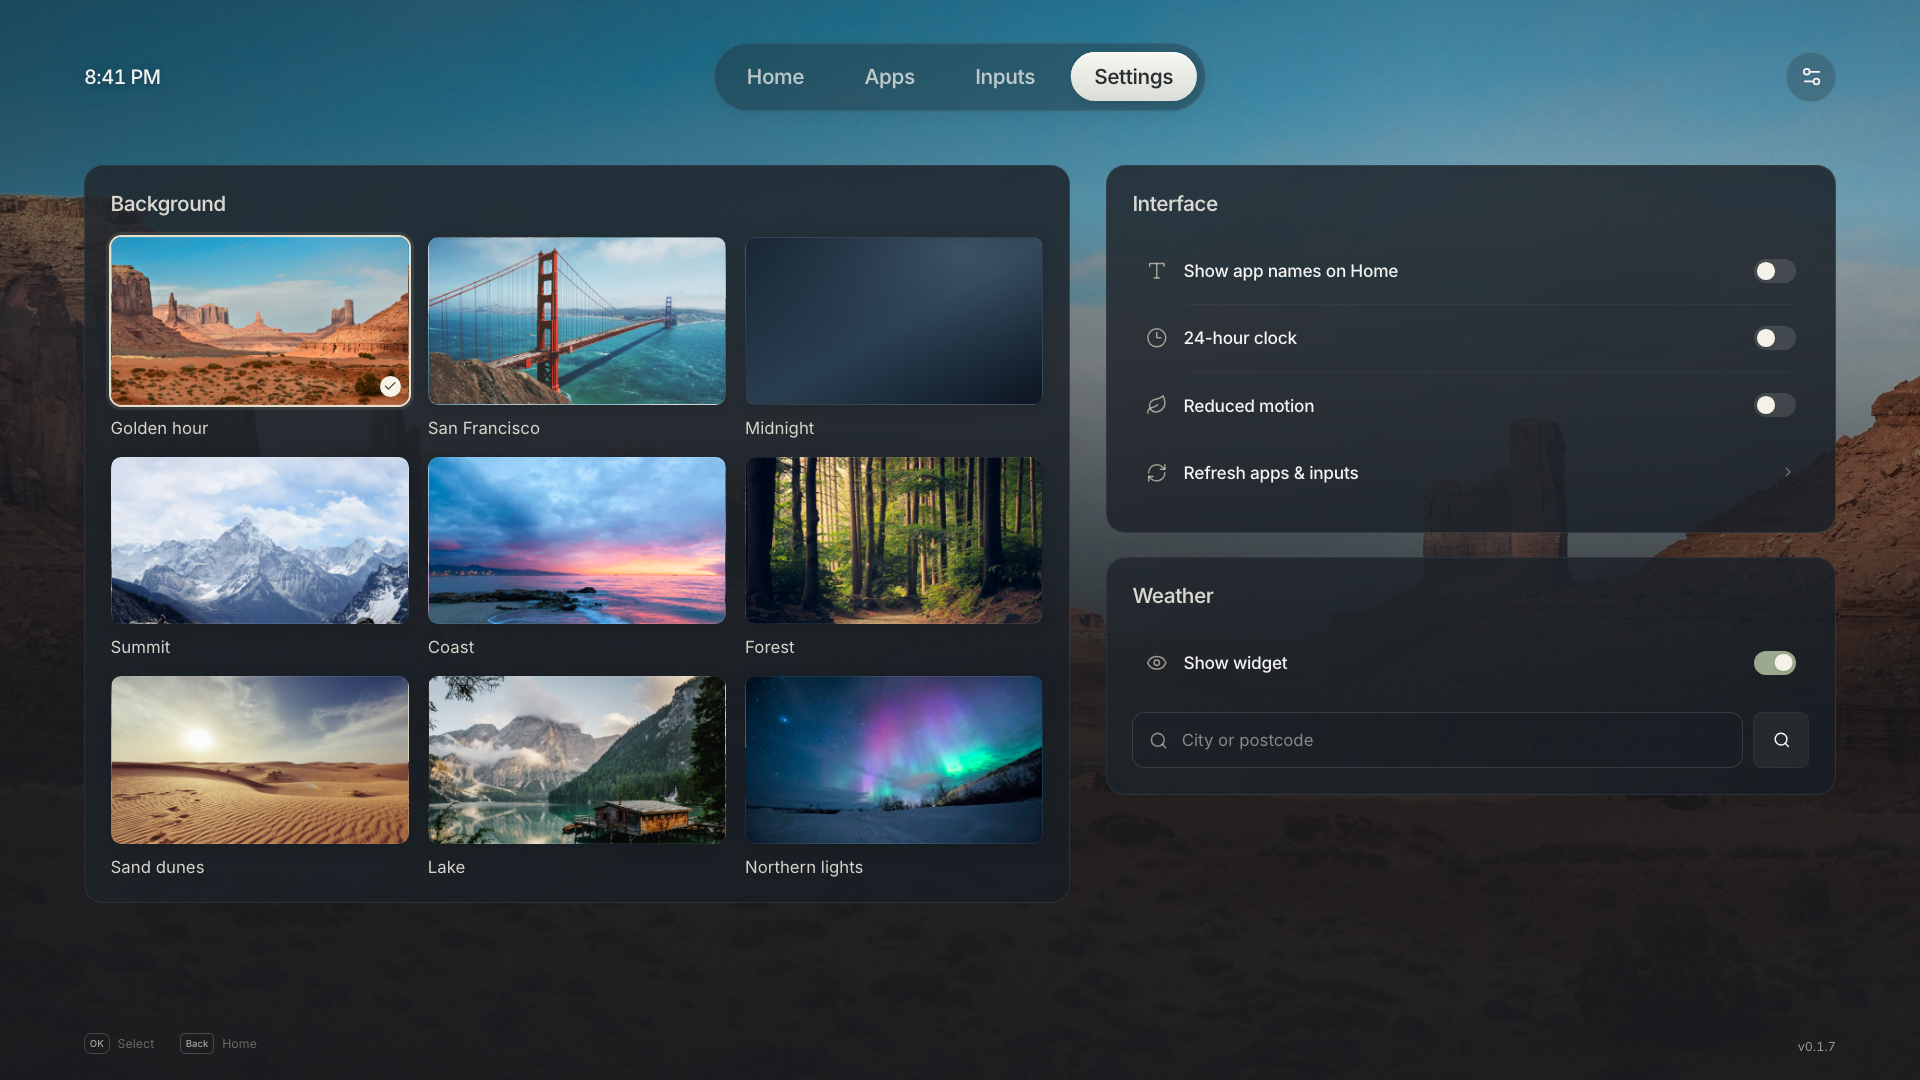
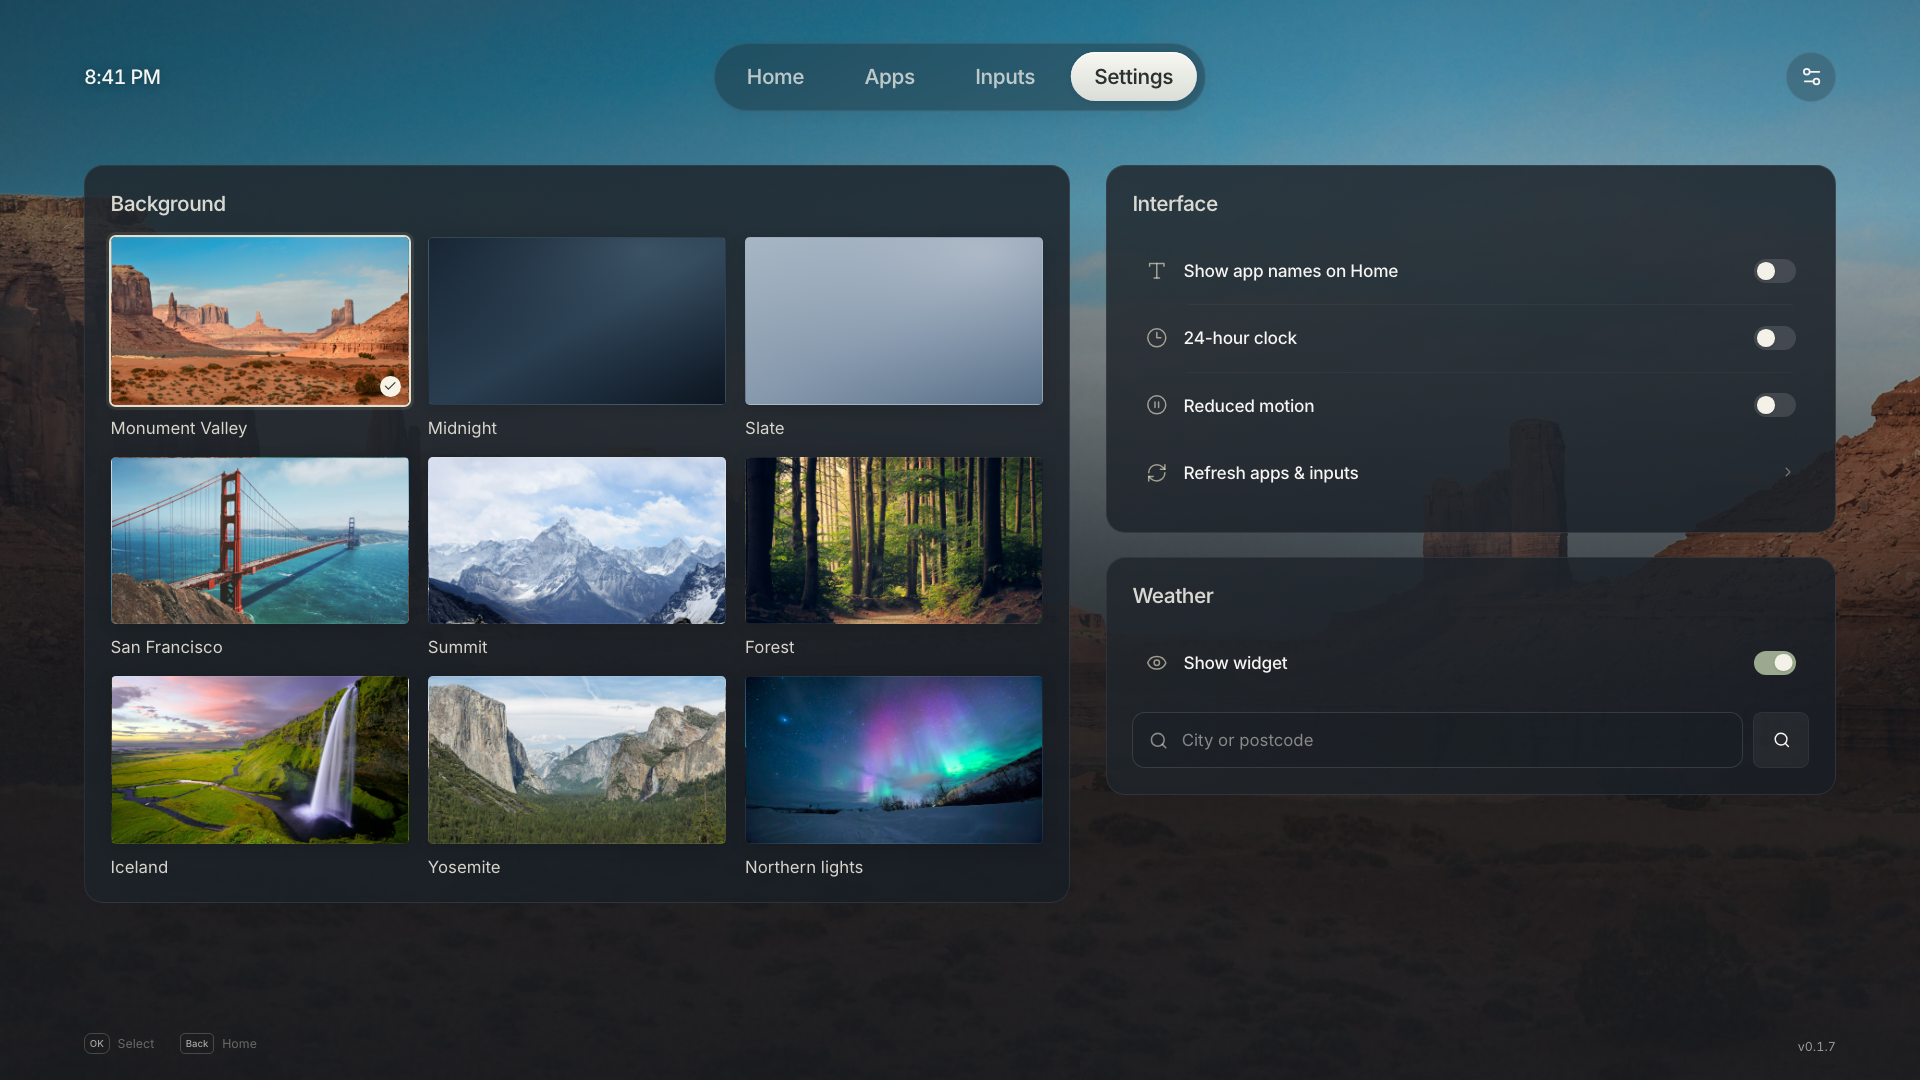
style: adjust wallpapers

Changed region(s): [[0.0312, 0.2139, 0.5625, 0.825], [0.5938, 0.3667, 0.625, 0.3972]]

diff --git a/tests/weather.spec.ts b/tests/weather.spec.ts
@@ -189,3 +189,24 @@ test('weather visibility preserves the city and prevents requests when the widge
   await page.getByRole('button', { name: 'Enter ambient mode' }).click();
   await expect(page.locator('.ambient-hint')).toHaveText('Press any button to return');
 });
+
+test('Back exits city editing before leaving Settings, including the TV Back key', async ({
+  page,
+}) => {
+  await page.goto('/');
+  await page.getByRole('button', { name: 'Settings', exact: true }).click();
+  const field = page.getByRole('searchbox', { name: 'City or postcode' });
+  const search = page.getByRole('button', { name: 'Search locations', exact: true });
+  await field.fill('Berlin');
+  await page.keyboard.press('Escape');
+  await expect(page.getByRole('region', { name: 'Luma settings', exact: true })).toBeVisible();
+  await expect(field).toHaveValue('Berlin');
+  await expect(search).toBeFocused();
+  await field.focus();
+  await field.dispatchEvent('keydown', { key: 'Unidentified', keyCode: 461, bubbles: true });
+  await expect(page.getByRole('region', { name: 'Luma settings', exact: true })).toBeVisible();
+  await expect(field).toHaveValue('Berlin');
+  await expect(search).toBeFocused();
+  await page.keyboard.press('Escape');
+  await expect(page.getByRole('heading', { name: 'Favorites', exact: true })).toBeVisible();
+});

diff --git a/src/components/connection-icon.tsx b/src/components/connection-icon.tsx
@@ -15,6 +15,9 @@ export function ConnectionIcon({ input }: { input: TVInput }) {
       </svg>
     );
   }
+  if (/apple[\s._-]*tv/i.test(name)) {
+    return <svg viewBox="0 0 24 24" aria-hidden="true" data-connection-icon="apple-tv" fill="currentColor"><path d="M20.57 17.735h-1.815l-3.34-9.203h1.633l2.02 5.987c.075.231.273.9.586 2.012l.297-.997.33-1.006 2.094-6.004H24zm-5.344-.066a5.76 5.76 0 0 1-1.55.207c-1.23 0-1.84-.693-1.84-2.087V9.646h-1.063V8.532h1.121V7.081l1.476-.602v2.062h1.707v1.113H13.38v5.805c0 .446.074.75.214.932.14.182.396.264.75.264.207 0 .495-.041.883-.115zm-7.29-5.343c.017 1.764 1.55 2.358 1.567 2.366-.017.042-.248.842-.808 1.658-.487.71-.99 1.418-1.79 1.435-.783.016-1.03-.462-1.93-.462-.89 0-1.17.445-1.913.478-.758.025-1.344-.775-1.838-1.484-.998-1.451-1.765-4.098-.734-5.88.51-.89 1.426-1.451 2.416-1.46.75-.016 1.468.512 1.93.512.461 0 1.327-.627 2.234-.536.38.016 1.452.157 2.136 1.154-.058.033-1.278.743-1.27 2.219M6.468 7.988c.404-.495.685-1.18.61-1.864-.585.025-1.294.388-1.723.883-.38.437-.71 1.138-.619 1.806.652.05 1.328-.338 1.732-.825Z" /></svg>;
+  }
   if (/(?:^|[\s._-])usb(?:$|[\s._-]|\d)/i.test(name))
     return <Usb strokeWidth={1.5} aria-hidden="true" data-connection-icon="usb" />;
   if (input.kind === 'console')

diff --git a/src/wallpapers.ts b/src/wallpapers.ts
@@ -6,8 +6,18 @@ export const wallpapers: {
   image: string;
 }[] = [
   {
+    id: 'slate',
+    title: 'Slate',
+    image: 'slate.svg',
+  },
+  {
+    id: 'midnight',
+    title: 'Midnight',
+    image: 'midnight.svg',
+  },
+  {
     id: 'dunes',
-    title: 'Golden hour',
+    title: 'Monument Valley',
     image: 'dunes.jpg',
   },
   {
@@ -16,19 +26,9 @@ export const wallpapers: {
     image: 'san-francisco.jpg',
   },
   {
-    id: 'midnight',
-    title: 'Midnight',
-    image: 'midnight.svg',
-  },
-  {
     id: 'summit',
     title: 'Summit',
     image: 'summit.jpg',
-  },
-  {
-    id: 'coast',
-    title: 'Coast',
-    image: 'coast.jpg',
   },
   {
     id: 'forest',
@@ -36,14 +36,14 @@ export const wallpapers: {
     image: 'forest.jpg',
   },
   {
-    id: 'sand-dunes',
-    title: 'Sand dunes',
-    image: 'sand-dunes.jpg',
+    id: 'lofoten',
+    title: 'Lofoten',
+    image: 'lofoten.jpg',
   },
   {
-    id: 'lake',
-    title: 'Lake',
-    image: 'lake.jpg',
+    id: 'yosemite',
+    title: 'Yosemite',
+    image: 'yosemite.jpg',
   },
   {
     id: 'northern-lights',

diff --git a/src/components/settings.tsx b/src/components/settings.tsx
@@ -1,4 +1,4 @@
-import { Check, ChevronRight, Clock3, Leaf, RefreshCw, Type } from 'lucide-react';
+import { Accessibility, Check, ChevronRight, Clock3, RefreshCw, Type } from 'lucide-react';
 import { WeatherSettings } from './weather-settings';
 import type { Preferences } from '../types';
 import { wallpapers } from '../wallpapers';
@@ -89,7 +89,7 @@ export function Settings({ preferences, onUpdate, onRefresh }: Props) {
                 data-focusable="setting-motion"
                 onClick={() => onUpdate({ reducedMotion: !preferences.reducedMotion })}
               >
-                <Leaf />
+                <Accessibility />
                 <span>
                   <strong>Reduced motion</strong>
                 </span>

diff --git a/src/components/weather-settings.tsx b/src/components/weather-settings.tsx
@@ -107,6 +107,16 @@ export function WeatherSettings({
             aria-label="City or postcode"
             data-focusable="weather-location-query"
             value={query}
+            onKeyDown={(event) => {
+              if (event.key === 'Escape' || event.keyCode === 461) {
+                event.preventDefault();
+                event.stopPropagation();
+                if (!event.repeat) {
+                  event.currentTarget.blur();
+                  searchButton.current?.focus({ preventScroll: true });
+                }
+              }
+            }}
             onChange={(event) => {
               controller.current?.abort();
               setLoading(false);

diff --git a/src/styles.css b/src/styles.css
@@ -119,14 +119,11 @@ button svg {
   background-position: center 40%;
   filter: saturate(0.7) brightness(0.8);
 }
-.wallpaper-coast,
 .wallpaper-forest,
-.wallpaper-lake,
+.wallpaper-lofoten,
+.wallpaper-yosemite,
 .wallpaper-northern-lights {
   filter: saturate(0.8);
-}
-.wallpaper-sand-dunes {
-  filter: saturate(0.8) brightness(0.85);
 }
 .wallpaper-shade {
   background:
@@ -664,6 +661,10 @@ button svg {
 .input-art svg {
   width: 2.2rem;
   height: 2.2rem;
+}
+.input-art [data-connection-icon='apple-tv'] {
+  width: 2.6rem;
+  height: 2.6rem;
 }
 .input-console .input-art {
   color: #d8dfeb;

diff --git a/src/settings.css b/src/settings.css
@@ -34,6 +34,13 @@
 .settings-page .wallpaper-thumbnail {
   height: auto;
   aspect-ratio: 16/9;
+  border-radius: 0.3rem;
+}
+.settings-page .wallpaper-option {
+  border-radius: 0.3rem;
+}
+.settings-page .wallpaper-option:focus-visible {
+  outline-offset: 3px;
 }
 .settings-page .wallpaper-option > span:not(.wallpaper-thumbnail) {
   font-size: 1.05rem;

diff --git a/src/types.ts b/src/types.ts
@@ -4,10 +4,10 @@ export type Wallpaper =
   | 'san-francisco'
   | 'midnight'
   | 'summit'
-  | 'coast'
+  | 'slate'
   | 'forest'
-  | 'sand-dunes'
-  | 'lake'
+  | 'lofoten'
+  | 'yosemite'
   | 'northern-lights';
 export type Category = 'Streaming' | 'Music' | 'Gaming' | 'Utilities';
 

diff --git a/assets.md b/assets.md
@@ -1,13 +1,12 @@
 # Luma assets and references
 
-- `public/mark.svg`, `public/app-icon.svg`, and `public/wallpapers/midnight.svg`: original Luma artwork, MIT. The TV app icon has a transparent background; webOS supplies the panel via `iconColor`, so there is no second background with its own clipping radius.
+- `public/mark.svg`, `public/app-icon.svg`, `public/wallpapers/midnight.svg`, and `public/wallpapers/slate.svg`: original Luma artwork, MIT. The TV app icon has a transparent background; webOS supplies the panel via `iconColor`, so there is no second background with its own clipping radius.
 - `public/wallpapers/dunes.jpg`: Unsplash photo `1509316785289-025f5b846b35`, https://images.unsplash.com/photo-1509316785289-025f5b846b35. Bundled under the [Unsplash License](https://unsplash.com/license).
 - `public/wallpapers/san-francisco.jpg`: Unsplash photo `1501594907352-04cda38ebc29`, https://images.unsplash.com/photo-1501594907352-04cda38ebc29. Bundled under the [Unsplash License](https://unsplash.com/license).
 - `public/wallpapers/summit.jpg`: Unsplash photo `1454496522488-7a8e488e8606`, https://images.unsplash.com/photo-1454496522488-7a8e488e8606. Bundled under the [Unsplash License](https://unsplash.com/license).
-- `public/wallpapers/coast.jpg`: Unsplash photo `1475924156734-496f6cac6ec1`, https://images.unsplash.com/photo-1475924156734-496f6cac6ec1. Bundled under the [Unsplash License](https://unsplash.com/license).
 - `public/wallpapers/forest.jpg`: Unsplash photo `1441974231531-c6227db76b6e`, https://images.unsplash.com/photo-1441974231531-c6227db76b6e. Bundled under the [Unsplash License](https://unsplash.com/license).
-- `public/wallpapers/sand-dunes.jpg`: Unsplash photo `1473580044384-7ba9967e16a0`, https://images.unsplash.com/photo-1473580044384-7ba9967e16a0. Bundled under the [Unsplash License](https://unsplash.com/license).
-- `public/wallpapers/lake.jpg`: Unsplash photo `1470770841072-f978cf4d019e`, https://images.unsplash.com/photo-1470770841072-f978cf4d019e. Bundled under the [Unsplash License](https://unsplash.com/license).
+- `public/wallpapers/lofoten.jpg`: [Reine Lofoten 2009](https://commons.wikimedia.org/wiki/File:Reine_Lofoten_2009.JPG), credit **Petr Šmerkl, Wikipedia**, [CC BY-SA 3.0](https://creativecommons.org/licenses/by-sa/3.0/). Resized/re-encoded as a JPEG no wider than 2560px; the image retains its CC BY-SA 3.0 license.
+- `public/wallpapers/yosemite.jpg`: [Tunnel View, Yosemite Valley, Yosemite NP](https://commons.wikimedia.org/wiki/File:Tunnel_View,_Yosemite_Valley,_Yosemite_NP_-_Diliff.jpg) by David Iliff (Diliff), [CC BY-SA 3.0](https://creativecommons.org/licenses/by-sa/3.0/). Resized to a 2560px-wide JPEG; the image retains its CC BY-SA 3.0 license.
 - `public/wallpapers/northern-lights.jpg`: Unsplash photo `1531366936337-7c912a4589a7`, https://images.unsplash.com/photo-1531366936337-7c912a4589a7. Bundled under the [Unsplash License](https://unsplash.com/license).
 - Inter variable font: Rasmus Andersson, SIL Open Font License 1.1. License bundled at `public/fonts/ofl.txt`.
 - Interface icons: Lucide, ISC license (dependency license in node_modules/lucide-react/LICENSE).
@@ -29,7 +28,7 @@ The requested app logos use downloaded vector artwork, rather than font approxim
 | `zdf.svg`         | [ZDF logo](https://commons.wikimedia.org/wiki/File:ZDF_logo.svg)                                                                | ZDF; public-domain logo artwork                                                                                                     |
 | `das-erste.svg`   | [Das Erste 2014](https://commons.wikimedia.org/wiki/File:Das_Erste_2014.svg)                                                    | ARD; public-domain logo artwork                                                                                                     |
 
-The PlayStation input symbol uses the SVG path supplied by the user. PlayStation is a Sony Interactive Entertainment mark. HDMI, USB, and generic device symbols are Lucide icons.
+The PlayStation and Apple TV input symbols use the SVG paths supplied by the user. PlayStation is a Sony Interactive Entertainment mark; Apple TV is an Apple mark. HDMI, USB, and generic device symbols are Lucide icons.
 
 TV integration was developed with [LG-XMB](https://github.com/Ripthulhu/LG-XMB)'s documented, working Homebrew Channel discovery transport as a reference. Luma does not include its code, native input hooks, shaders, or PS3 assets.
 

diff --git a/readme.md b/readme.md
@@ -93,13 +93,15 @@ Home shows Favorites and Inputs without a recent-app section or permanent contro
 
 The top navigation includes a full-page **Settings** view, with **Background** on the left and **Interface** above **Weather** on the right. The sliders icon at the top right opens **TV settings** directly. Interface controls Home app names, 12/24-hour time, reduced motion, and refresh. Back returns to Home, and the version number appears at the bottom right of Settings. The moon button in the footer opens the ambient clock on the other pages.
 
-The nine bundled backgrounds are Golden hour, San Francisco, Midnight (a gradient), Summit, Coast, Forest, Sand dunes, Lake, and Northern lights. From the Settings tab, Down enters Interface and continues into Weather; Left reaches the background gallery.
+The nine bundled backgrounds are Slate (a lighter gradient), Midnight (a dark gradient), Monument Valley, San Francisco, Summit, Forest, Lofoten, Yosemite, and Northern lights. From the Settings tab, Down enters Interface and continues into Weather; Left reaches the background gallery.
 
 Apple TV, Prime Video, Disney+, Jellyfin, Netflix, YouTube, ARTE, ZDF, and Das Erste use bundled SVG logos. Input cards choose connection artwork from the reported device name: PlayStation uses the supplied PlayStation mark, USB uses the USB symbol, unnamed HDMI ports use an HDMI connector, and other devices use a suitable generic icon. Icon selection does not change the input's launch target.
 
 ## Weather
 
 Open **Settings → Weather**, enter a city or postcode, press Search, and select the matching place. **Show widget** controls visibility on Home and the ambient screen; turning it off keeps your saved city. When enabled, the widget shows the chosen city, temperature in °C, and current conditions. Nothing uses browser geolocation or automatic IP-based location lookup.
+
+Back while editing the city/postcode field leaves the field and keeps Settings open. Press Back again from a button to return Home.
 
 Weather refreshes every 15 minutes while Home or the ambient clock is visible. The ambient clock shows weather in place of the return hint when a location is configured. Recent readings are cached locally and reused after reopening the app. If the connection fails, an available cached reading is labeled as saved; otherwise the widget says weather is unavailable. Remove the weather location in Settings to turn it off.
 
